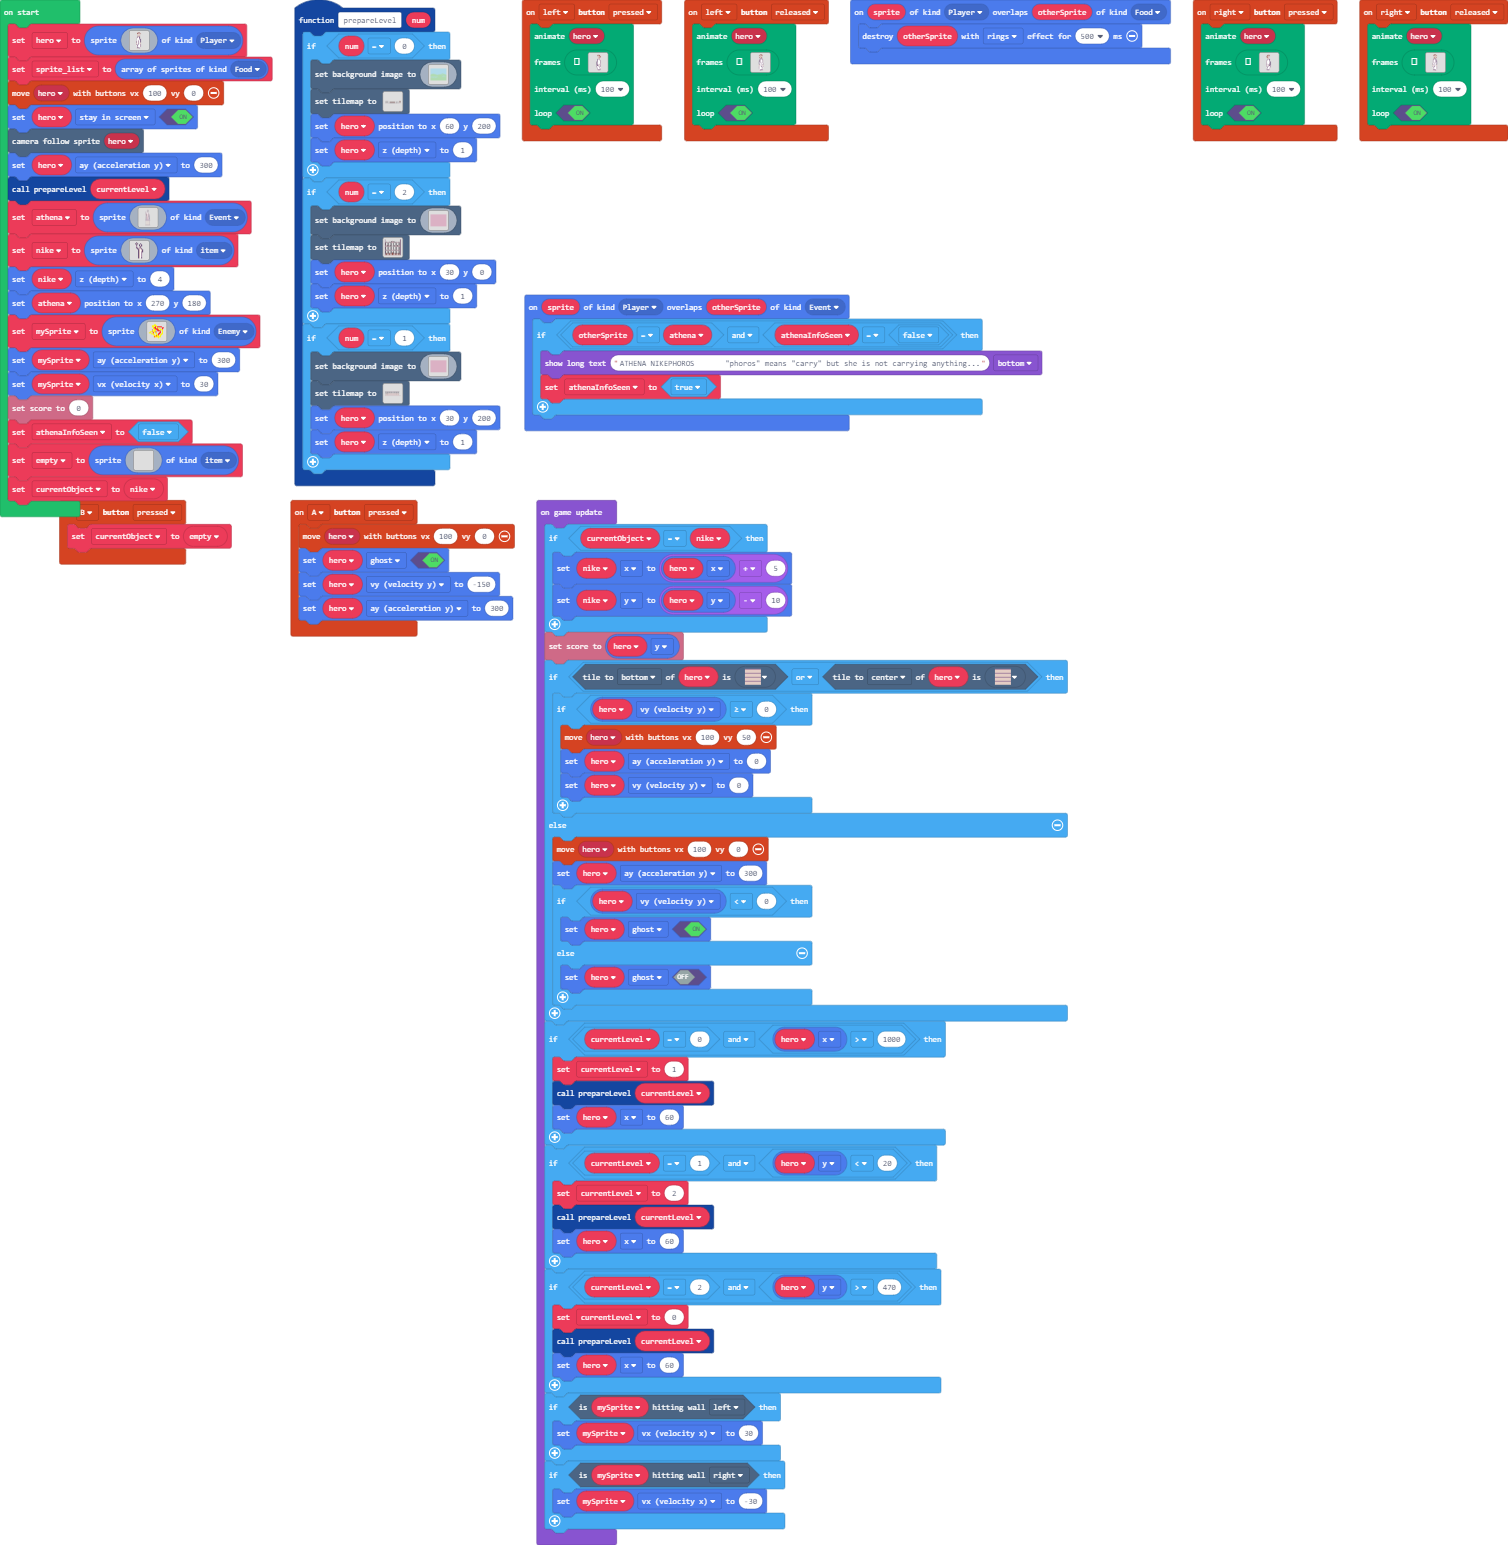
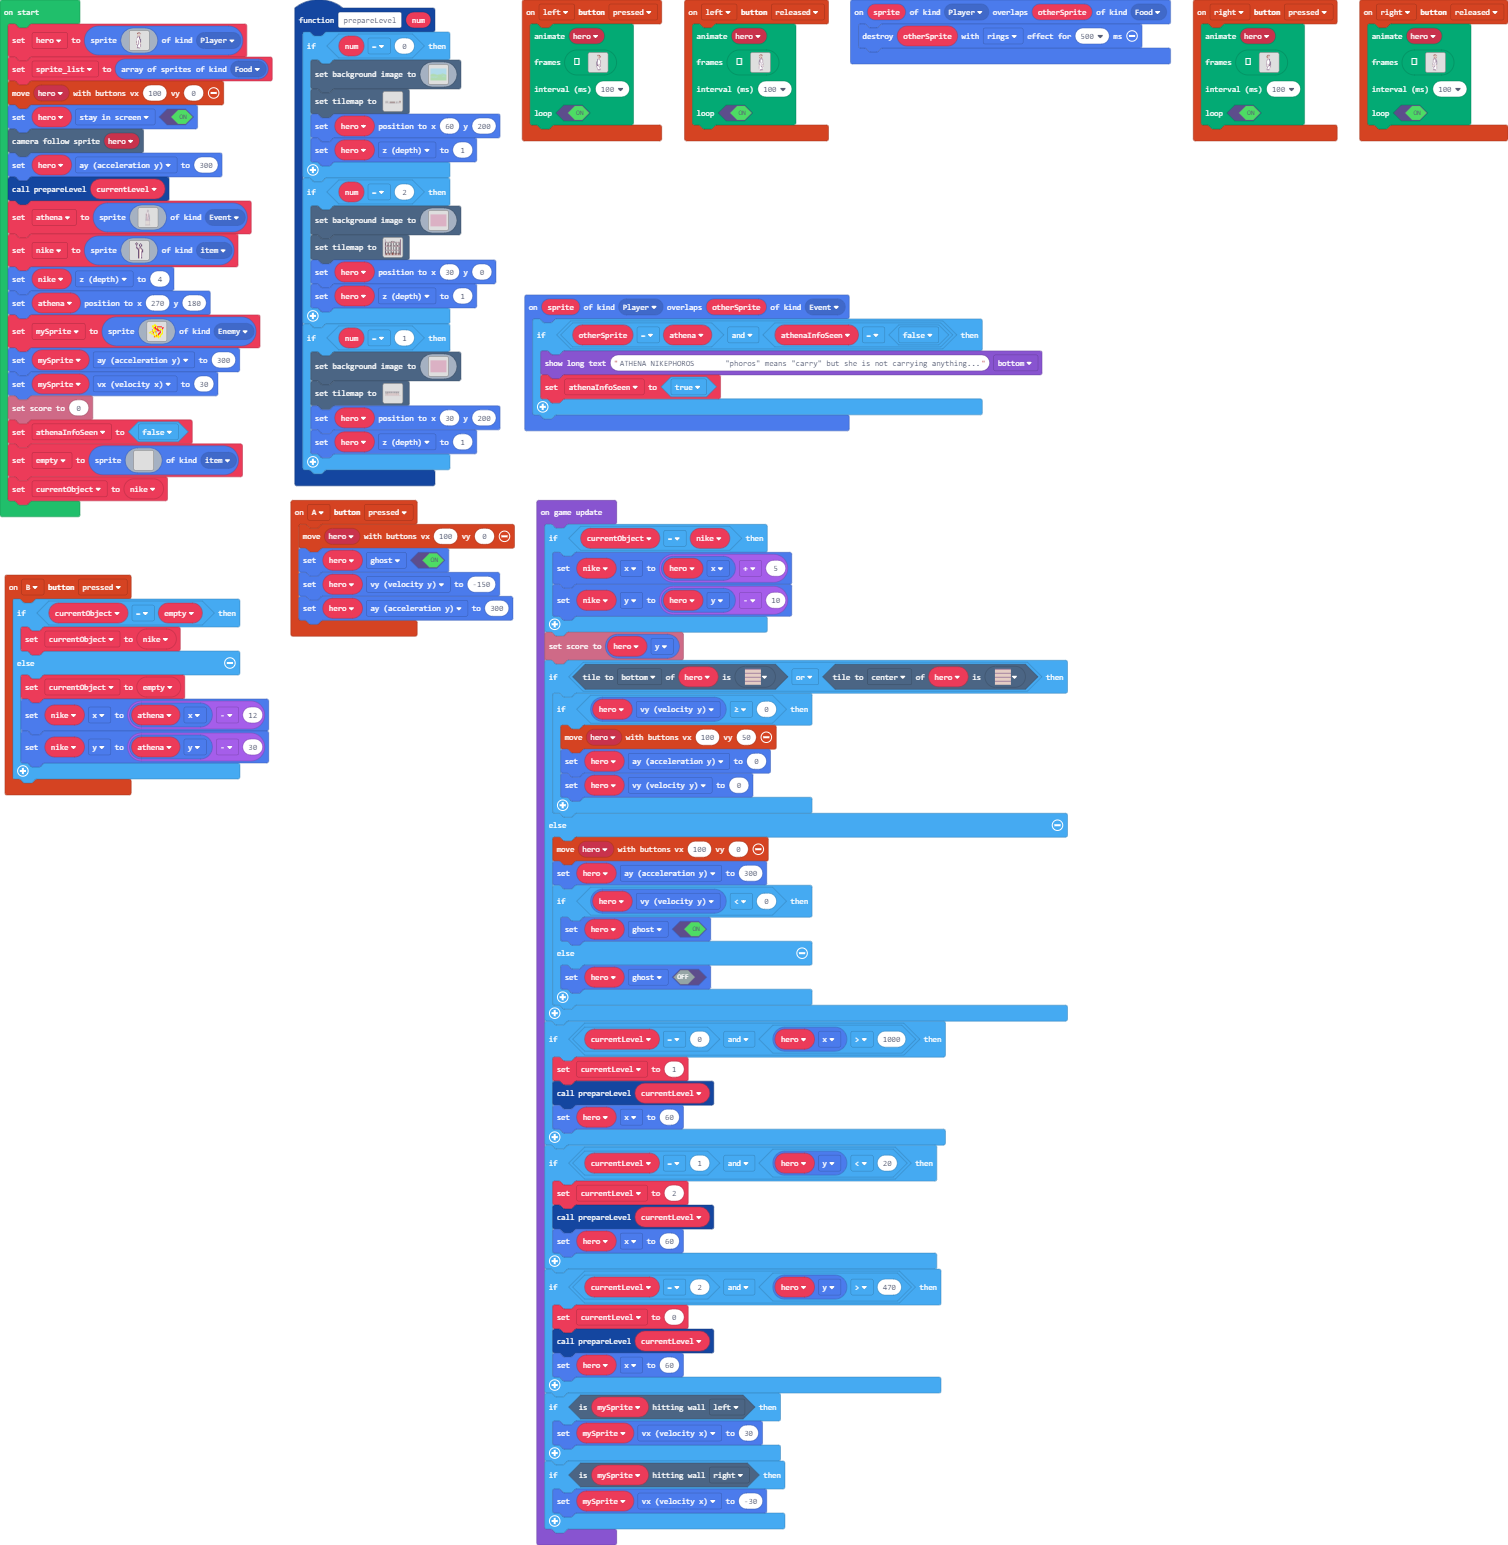
drop object

Changed region(s): [[0.0, 0.3107, 0.187, 0.5282]]

diff --git a/main.ts b/main.ts
@@ -1453,7 +1453,13 @@ controller.left.onEvent(ControllerButtonEvent.Pressed, function () {
     )
 })
 controller.B.onEvent(ControllerButtonEvent.Pressed, function () {
-    currentObject = empty
+    if (currentObject == empty) {
+        currentObject = nike
+    } else {
+        currentObject = empty
+        nike.x = athena.x - 12
+        nike.y = athena.y - 30
+    }
 })
 controller.left.onEvent(ControllerButtonEvent.Released, function () {
     animation.runImageAnimation(
@@ -2088,6 +2094,7 @@ function prepareLevel (num: number) {
 let currentObject: Sprite = null
 let empty: Sprite = null
 let athenaInfoSeen = false
+let nike: Sprite = null
 let athena: Sprite = null
 let currentLevel = 0
 let hero: Sprite = null
@@ -2144,22 +2151,22 @@ athena = sprites.create(img`
 . . . . . . . . . . . 3 1 1 1 b b b c f . . . . . . . . . . . . 
 . . . . . . . . . . . . c c c 1 c c c c . . . . . . . . . . . . 
 . . . . . . . . . . . . 1 c 1 d 1 3 1 c . . . . . . . . . . . . 
-. . . . 1 . . . . . . . 1 d d d d 3 f c . . . . . . . . . . . . 
-. . . . c c . . . . . . 1 c 1 d f f f . . . . . . . . . . . . . 
-. . . . 3 c c . . . . . . 3 b b f f . . . . . . . . . . . . . . 
-. . b . d c . . . . . b b 3 c b b f . . . . . . . . . . . . . . 
-. . b . d c . . . . b 1 1 1 1 1 1 f c c c c . . . . . . . . . . 
-. b b . d c . . . b b 1 1 1 c c c c 1 1 1 c c . . . . . . . . . 
-. . b . d c . . b 1 1 1 1 1 3 1 1 c 1 1 1 c c . . . . . . . . . 
-. . b b 1 c . . b 1 1 3 1 1 3 1 1 1 1 1 1 d c . . . . . . . . . 
-. . b b 1 c . . b 1 1 3 1 1 3 1 1 1 1 1 1 1 d c . . . . . . . . 
-. . b d 1 f . . b 1 1 3 1 1 1 1 1 1 1 1 1 1 d c . . . . . . . . 
-. . b d 1 f . . b 3 3 1 1 1 1 1 1 1 1 1 b 3 3 c . . . . . . . . 
-. . b d 1 f . . b 1 3 1 1 1 1 1 1 d 1 1 1 3 1 c . . . . . . . . 
-. . b d 1 f . b 1 3 3 d d d d d d 1 1 3 b 1 1 c . . . . . . . . 
-. . b d 1 f . . b 3 3 1 1 1 1 1 1 1 1 3 c f 1 c . . . . . . . . 
-. . b d 3 c c c b 3 3 3 1 1 1 1 1 1 1 3 c f 1 c . . . . . . . . 
-. . b d 3 1 c c b 3 3 3 1 1 1 1 1 3 3 3 3 f 1 c c . . . . . . . 
+. . . . . . . . . . . . 1 d d d d 3 f c . . . . . . . . . . . . 
+. . . . . . . . . . . . 1 c 1 d f f f . . . . . . . . . . . . . 
+. . . . . . . . . . . . . 3 b b f f . . . . . . . . . . . . . . 
+. . . . . . . . . . . b b 3 c b b f . . . . . . . . . . . . . . 
+. . . . . . . . . . b 1 1 1 1 1 1 f c c c c . . . . . . . . . . 
+. . . . . . . . . b b 1 1 1 c c c c 1 1 1 c c . . . . . . . . . 
+. . . . . . . . b 1 1 1 1 1 3 1 1 c 1 1 1 c c . . . . . . . . . 
+. . . . . . . . b 1 1 3 1 1 3 1 1 1 1 1 1 d c . . . . . . . . . 
+. . . . . . . . b 1 1 3 1 1 3 1 1 1 1 1 1 1 d c . . . . . . . . 
+. . . . . . . . b 1 1 3 1 1 1 1 1 1 1 1 1 1 d c . . . . . . . . 
+. . . . . . . . b 3 3 1 1 1 1 1 1 1 1 1 b 3 3 c . . . . . . . . 
+. . . . . . . . b 1 3 1 1 1 1 1 1 d 1 1 1 3 1 c . . . . . . . . 
+. . . . . . . b 1 3 3 d d d d d d 1 1 3 b 1 1 c . . . . . . . . 
+. . . . . . . . b 3 3 1 1 1 1 1 1 1 1 3 c f 1 c . . . . . . . . 
+. . b b b b c c b 3 3 3 1 1 1 1 1 1 1 3 c f 1 c . . . . . . . . 
+. . b d d 1 c c b 3 3 3 1 1 1 1 1 3 3 3 3 f 1 c c . . . . . . . 
 . . b b 1 3 1 f b 3 3 3 3 3 3 3 3 1 3 3 c f 1 1 c . . . . . . . 
 . . . b c f c f b b 3 1 1 1 3 3 3 3 1 3 c f f b c . . . . . . . 
 . . . b . f d f f b 3 1 1 1 1 3 1 3 1 3 c c 1 b b c . . . . . . 
@@ -2229,7 +2236,7 @@ c c c c c c c c c c c c c c c c c c c c c c c c c c c c c c c c
 . b b b b b b b b b b b b b b b b b b b b b b b b b b b b b b . 
 c c c c c c c c c c c c c c c c c c c c c c c c c c c c c c c c 
 `, SpriteKind.Event)
-let nike = sprites.create(img`
+nike = sprites.create(img`
 . c . . . . . . 
 c d c . . c . . 
 . c . . c 1 c . 
